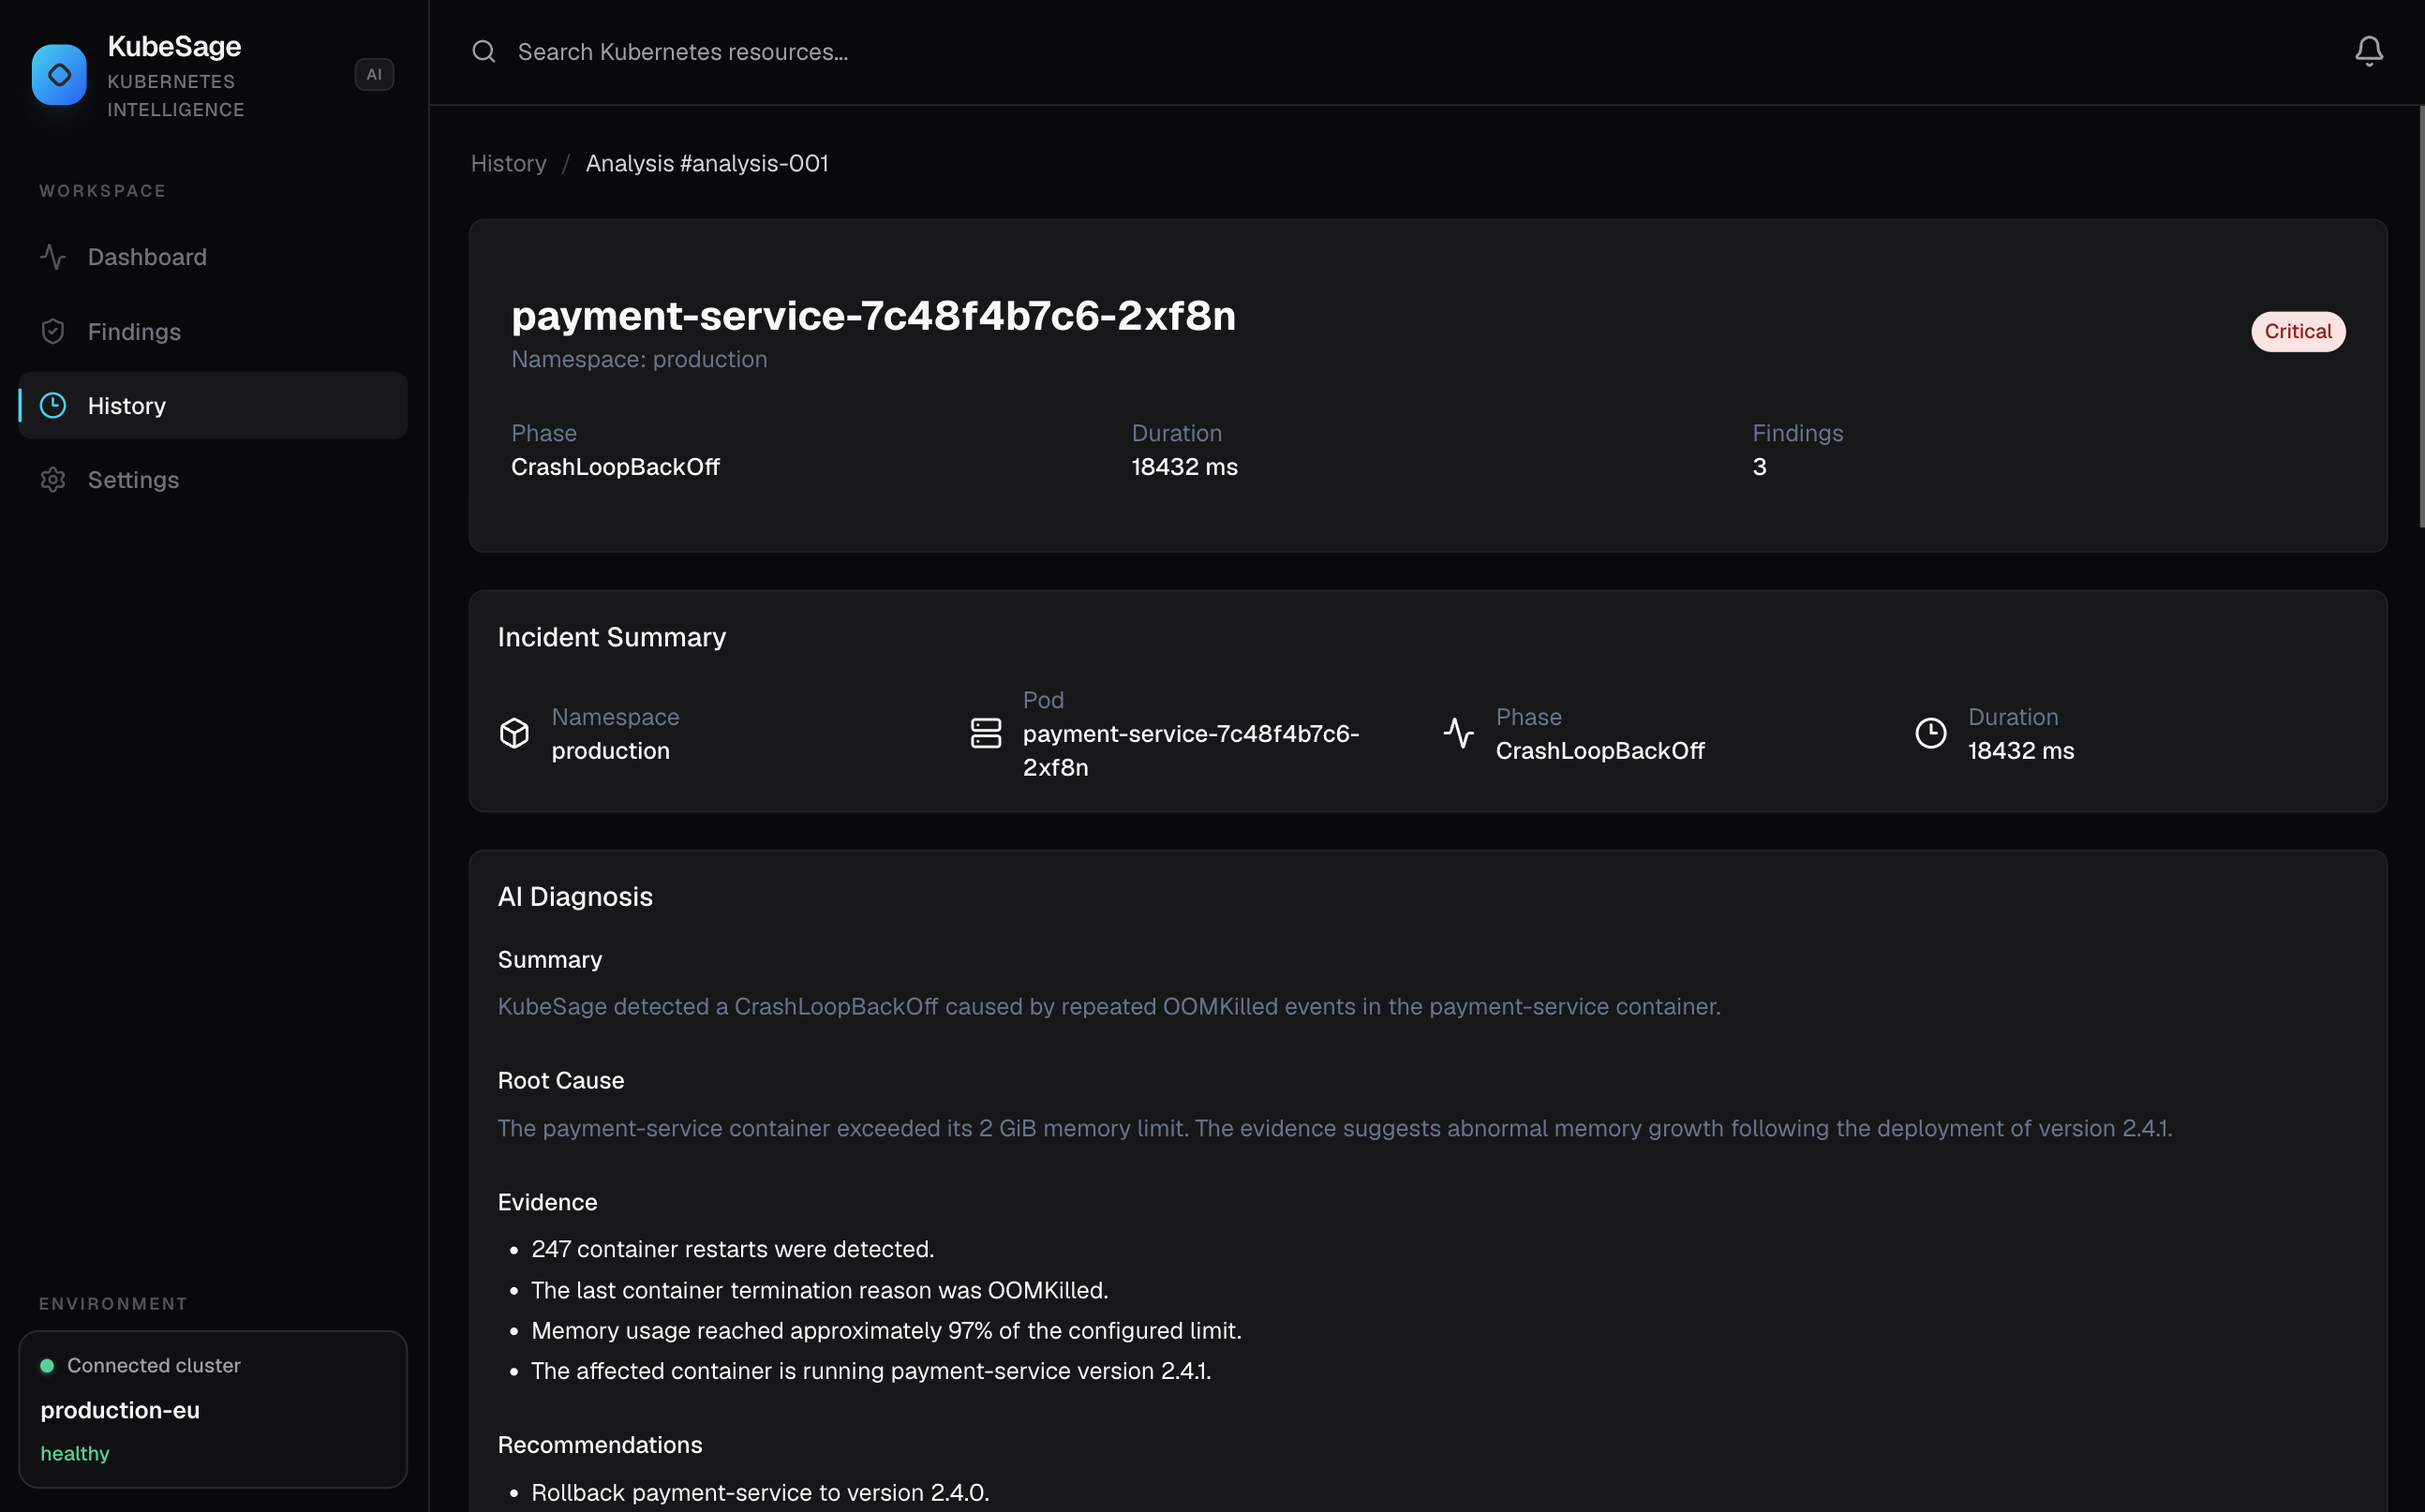
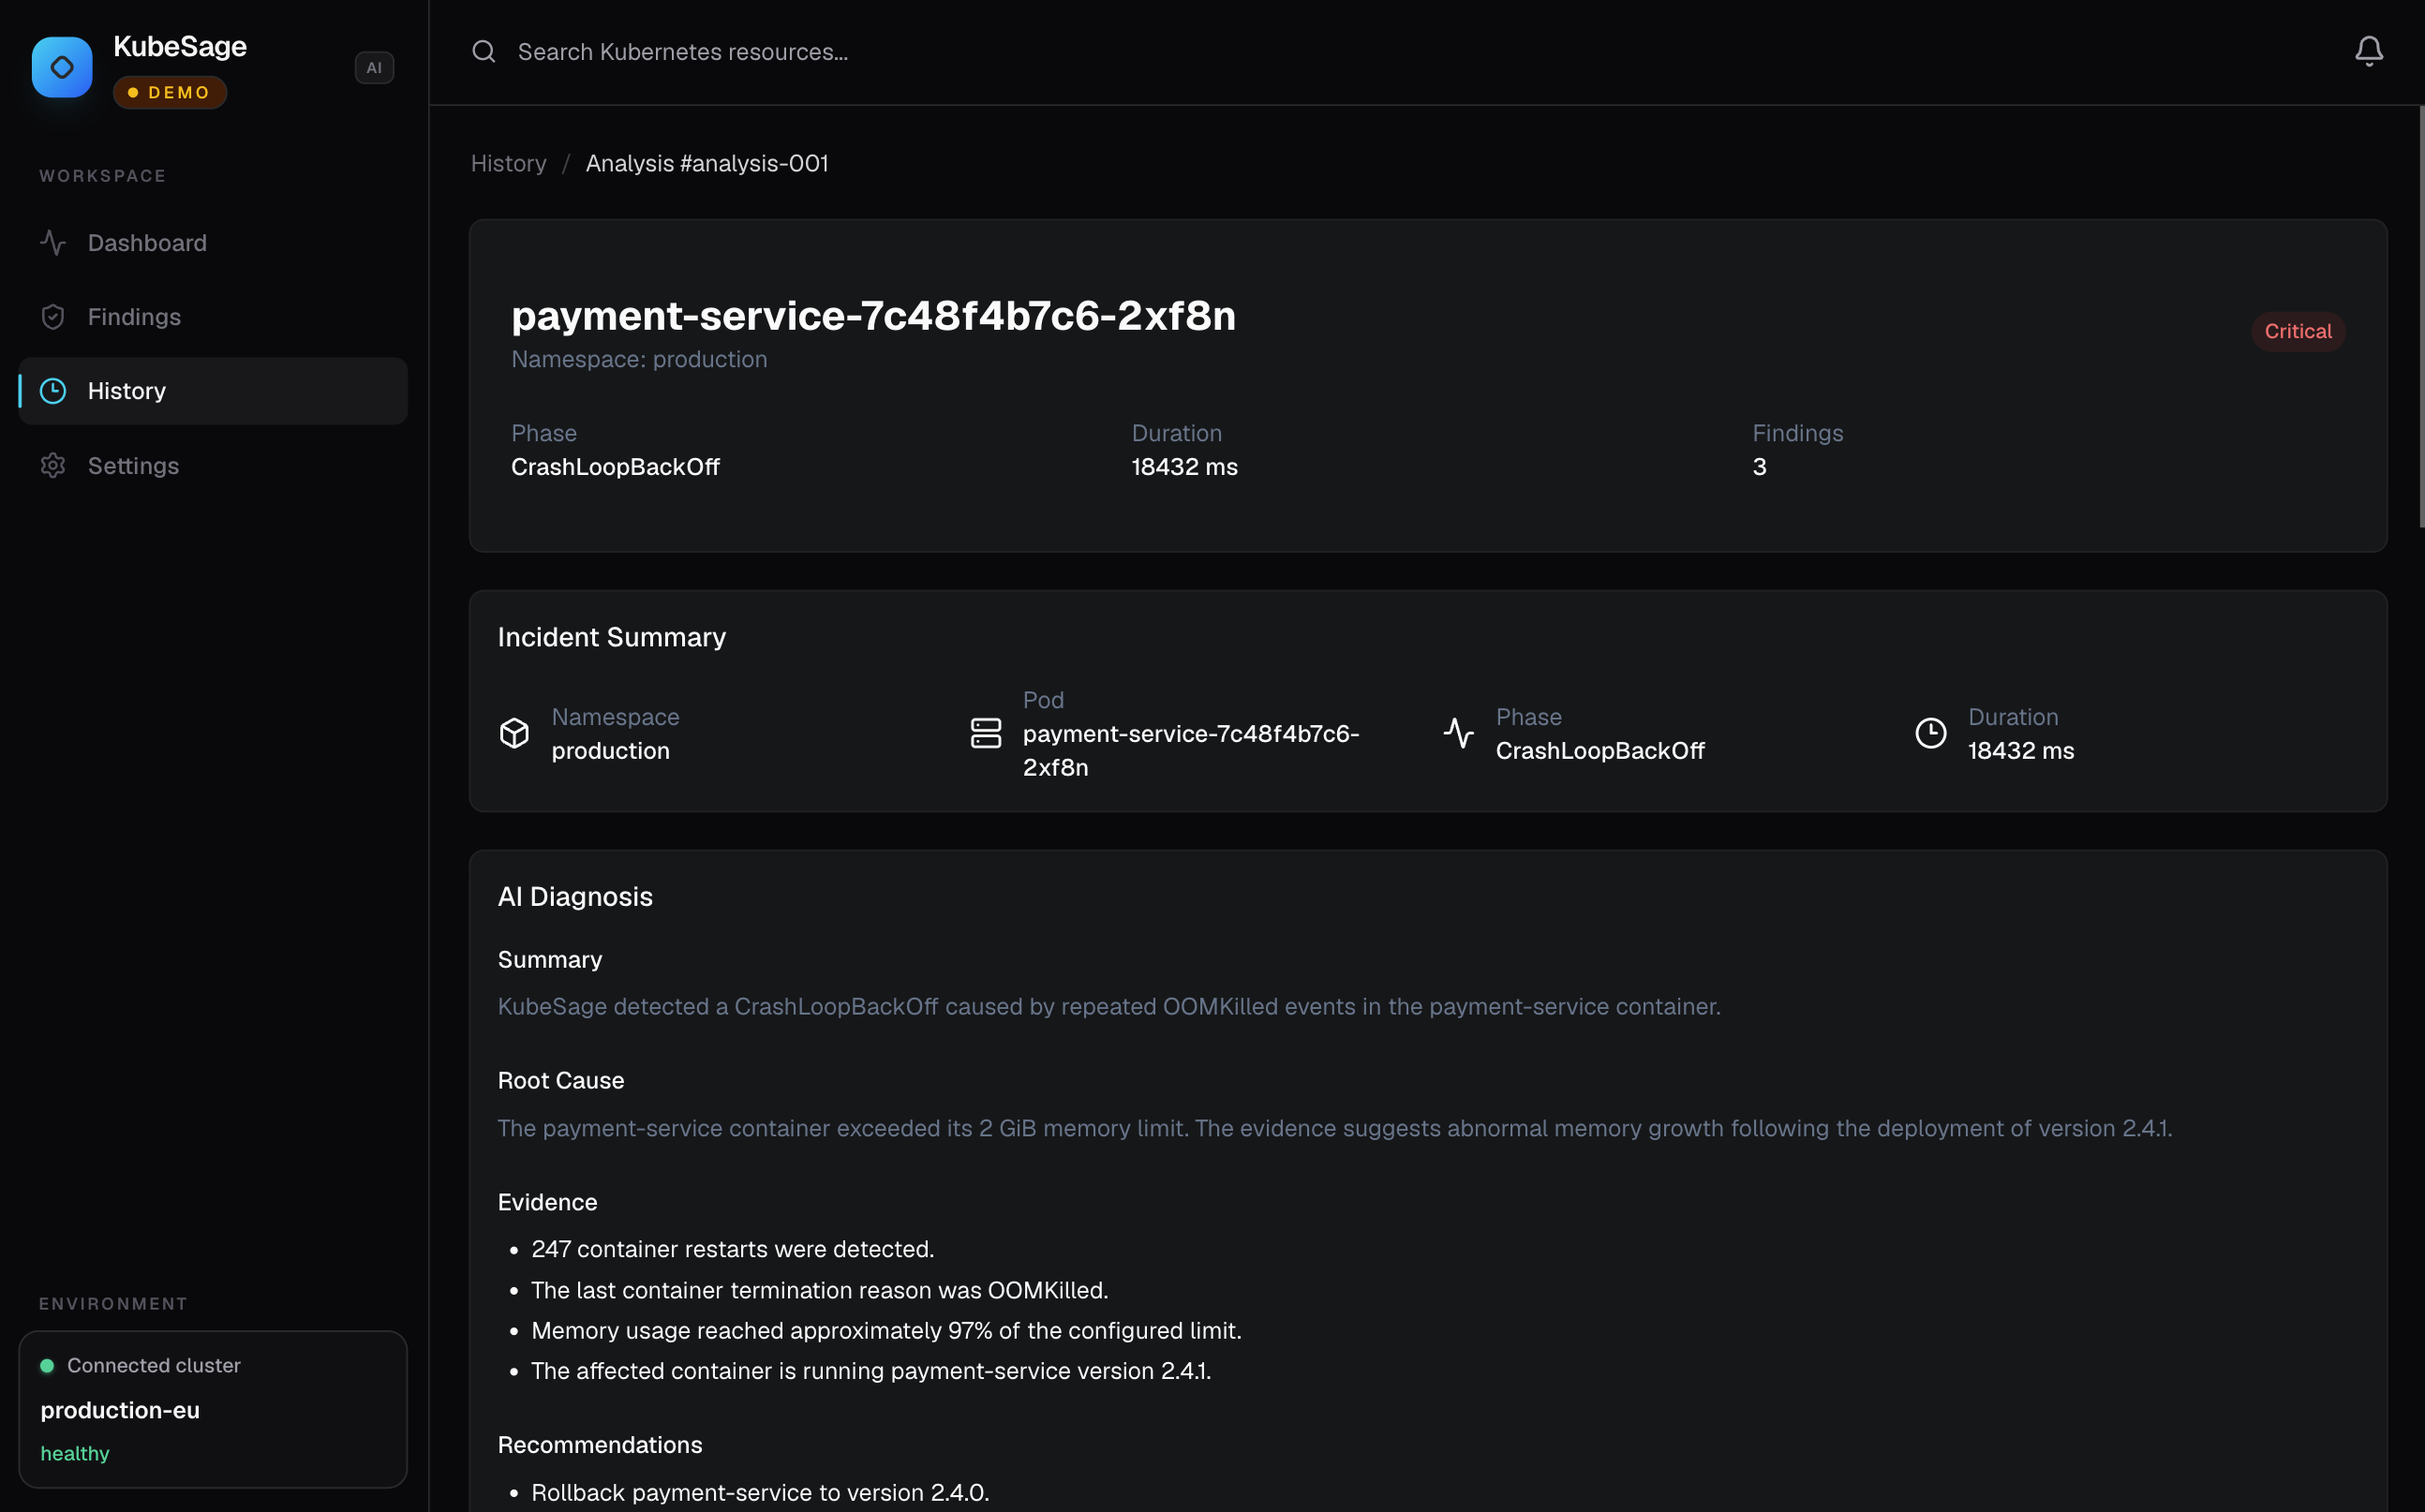
feat: update documentation to reflect KubeSage Web finalizations

diff --git a/README.md b/README.md
@@ -1,4 +1,4 @@
-<h1 align="center">🤖 KubeSage Frontend</h1>
+<h1 align="center">🤖 KubeSage Web</h1>
 
 <p align="center">
   <img src="docs/kubesage-logo.png" alt="KubeSage Logo" width="280">
@@ -12,6 +12,16 @@
   A web interface for exploring cluster health, findings and incident analyses with KubeSage.
 </p>
 
+<p align="center">
+  <a href="https://fdebar.github.io/kubesage-web/">
+    <strong>🚀 Live Demo</strong>
+  </a>
+</p>
+
+<p align="center">
+  <em>The public demo runs entirely with mock data — no Kubernetes cluster or backend required.</em>
+</p>
+
 <h4 align="center">
 
 ![React](https://img.shields.io/badge/React-19-61DAFB)
@@ -23,7 +33,7 @@
 ![ESLint](https://img.shields.io/badge/ESLint-Linted-4B32C3?logo=eslint&logoColor=white)
 ![Spellcheck](https://img.shields.io/badge/Spellcheck-Enabled-4285F4)
 
-[![CI](https://github.com/fdebar/kubesage-web/actions/workflows/ci.yml/badge.svg)](https://github.com/fdebar/kubesage-web/actions/workflows/ci.yaml)
+[![CI](https://github.com/fdebar/kubesage-web/actions/workflows/ci.yml/badge.svg)](https://github.com/fdebar/kubesage-web/actions/workflows/ci.yml)
 
 </h4>
 
@@ -57,15 +67,41 @@ The platform is designed around the following flow:
                    Incident Investigation
 ```
 
-The frontend provides the **visual investigation experience**, while the KubeSage API handles analysis, data collection and business logic.
+**KubeSage Web** provides the visual investigation experience, while the KubeSage API handles data collection, analysis and business logic.
 
-This repository contains only the **KubeSage frontend**.
+This repository contains the **KubeSage web application**.
+
+---
+
+## 🚀 Live Demo
+
+The frontend is publicly available through GitHub Pages:
+
+<p align="center">
+  <a href="https://fdebar.github.io/kubesage-web/">
+    <strong>👉 Open the KubeSage Web Demo</strong>
+  </a>
+</p>
+
+The live demo runs in **Demo Mode** using realistic mock data.
+
+No Kubernetes cluster, observability stack or KubeSage API is required.
+
+This makes the application immediately accessible for:
+
+- exploring the UI;
+- demonstrating the project;
+- reviewing the incident investigation workflow;
+- evaluating the frontend architecture;
+- sharing KubeSage without deploying the complete platform.
+
+The demo is automatically deployed through **GitHub Actions** whenever changes are pushed to the main branch.
 
 ---
 
 ## 📸 Interface
 
-KubeSage provides a dedicated interface for moving from a high-level cluster overview to detailed incident investigation.
+KubeSage Web provides a dedicated interface for moving from a high-level cluster overview to detailed incident investigation.
 
 ### Dashboard
 
@@ -136,7 +172,7 @@ An analysis can combine information from multiple sources:
 - correlations between findings;
 - AI-assisted analysis.
 
-This is intended to provide context rather than simply report an isolated alert.
+The goal is to provide context and relationships between signals rather than simply report an isolated alert.
 
 ### 🕘 Analysis History
 
@@ -152,24 +188,29 @@ The Settings view provides a dedicated place for application-level configuration
 
 ## 🎮 Demo Mode
 
-The frontend includes a **Demo Mode** powered by local mock data.
+KubeSage Web includes a **Demo Mode** powered by local mock data.
 
 Demo Mode makes it possible to explore the application without running:
 
 - a Kubernetes cluster;
 - the KubeSage API;
 - Prometheus;
-- the observability stack.
+- Loki;
+- Tempo;
+- the rest of the KubeSage observability stack.
 
-This is particularly useful for:
+The mock data reproduces realistic application states so that the complete frontend experience can be explored independently of the backend.
+
+Demo Mode is used by the public GitHub Pages deployment.
+
+It is also useful for:
 
 - local frontend development;
 - UI development;
 - demonstrations;
 - screenshots;
+- testing application states;
 - evaluating the project without deploying the complete KubeSage platform.
-
-Start the frontend locally and explore the interface using the included demo data.
 
 ---
 
@@ -188,6 +229,8 @@ Start the frontend locally and explore the interface using the included demo dat
 
 The application follows a component-based architecture with feature-oriented organization where appropriate.
 
+Data-access logic is kept separate from presentation components, while reusable hooks encapsulate server-state interactions and caching.
+
 ---
 
 ## 📁 Project Structure
@@ -200,9 +243,13 @@ A simplified structure looks like:
 src/
 ├── api/
 │   └── ...
+├── app/
+│   └── ...
 ├── components/
 │   ├── common/
 │   └── ui/
+├── config/
+│   └── ...
 ├── features/
 │   ├── analysis/
 │   ├── dashboard/
@@ -215,42 +262,40 @@ src/
 │   └── ...
 ├── types/
 │   └── ...
-├── config/
-│   └── ...
 └── main.tsx
 ```
 
 The exact structure may evolve as the frontend grows.
 
-Data-access logic is kept separate from presentation components, while reusable hooks encapsulate server-state interactions and caching.
-
-Mock data is kept independently from the application logic so that Demo Mode can reproduce realistic application states without requiring the backend.
+Mock data is kept independently from application logic so that Demo Mode can reproduce realistic application states without requiring the backend.
 
 ---
 
 ## 🔗 KubeSage API
 
-The frontend communicates with the **KubeSage API** through HTTP.
+KubeSage Web can communicate with the **KubeSage API** through HTTP when running against a real KubeSage environment.
 
 The API is maintained separately from this repository.
 
 The two components are intentionally decoupled:
 
 ```text
-kubesage-frontend
-       │
-       │ HTTP
-       ▼
+kubesage-web
+      │
+      │ HTTP
+      ▼
 kubesage-api
-       │
-       ├── Kubernetes
-       ├── Prometheus
-       ├── Loki
-       ├── Tempo
-       └── PostgreSQL
+      │
+      ├── Kubernetes
+      ├── Prometheus
+      ├── Loki
+      ├── Tempo
+      └── PostgreSQL
 ```
 
 This separation allows the frontend and backend to be developed, tested and deployed independently.
+
+The public demo does **not** use this API and runs entirely in Demo Mode.
 
 ---
 
@@ -274,7 +319,7 @@ npm --version
 
 ```bash
 git clone https://github.com/fdebar/kubesage-web.git
-cd kubesage-frontend
+cd kubesage-web
 ```
 
 ### Install dependencies
@@ -303,29 +348,39 @@ http://localhost:5173
 
 The frontend can then be explored using the included mock data.
 
-No KubeSage API or Kubernetes cluster is required for the demo experience.
+No KubeSage API or Kubernetes cluster is required.
 
 ---
 
 ## ⚙ Configuration
 
-When connecting the frontend to a real KubeSage API, configure the API endpoint through an environment variable.
+KubeSage Web supports different data sources depending on the environment.
 
-Create a `.env.local` file:
+For Demo Mode:
 
 ```env
+VITE_DATA_SOURCE=demo
+```
+
+When connecting the frontend to a real KubeSage API, configure the API endpoint through an environment variable.
+
+For example:
+
+```env
+VITE_DATA_SOURCE=api
 VITE_API_URL=http://localhost:8000/v1/api
 ```
 
-For example, when the API is deployed remotely:
+For a remotely deployed API:
 
 ```env
+VITE_DATA_SOURCE=api
 VITE_API_URL=https://kubesage-api.example.com/v1/api
 ```
 
 > `VITE_API_URL` is a frontend configuration value and must not contain secrets.
 
-The exact data-source configuration depends on the current application configuration.
+The exact data-source configuration is defined by the application's current configuration.
 
 ---
 
@@ -344,9 +399,9 @@ Browser
    │
    │ http://localhost:5173
    ▼
-KubeSage Frontend
+KubeSage Web
    │
-   │ http://localhost:8000/v1/api
+   │ HTTP
    ▼
 KubeSage API
 ```
@@ -370,6 +425,8 @@ dist/
 ```
 
 The application is a client-side single-page application and can be served by a web server capable of handling SPA routing.
+
+The repository also includes a GitHub Actions workflow that builds and deploys the Demo Mode application to GitHub Pages.
 
 > Docker is not currently required for the frontend.
 
@@ -397,7 +454,7 @@ The CI pipeline runs the project's validation checks before changes are merged.
 
 ## 🔭 Roadmap
 
-KubeSage Frontend will evolve alongside the platform's incident investigation capabilities.
+KubeSage Web will evolve alongside the platform's incident investigation capabilities.
 
 Planned improvements include:
 
@@ -417,4 +474,4 @@ The long-term goal is to evolve KubeSage from a monitoring-oriented interface in
 
 ## 📄 License
 
-To be defined according to the license selected for KubeSage.
+MIT License.
